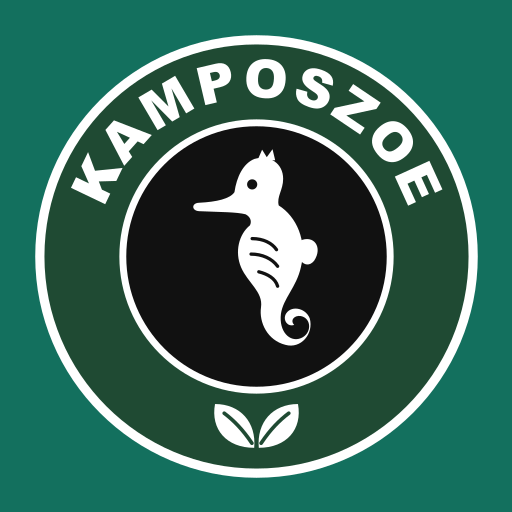
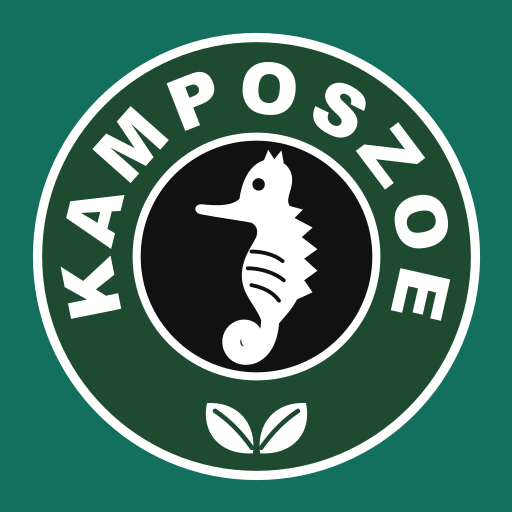
feat: emblema Kamposzoe más fiel al letrero (texto envolvente, púas, cola enroscada)

Changed region(s): [[0.0625, 0.0625, 0.9375, 0.9375]]

diff --git a/src/components/Logo.tsx b/src/components/Logo.tsx
@@ -2,16 +2,9 @@
 export default function Logo({ className = "" }: { className?: string }) {
   return (
     <svg viewBox="0 0 100 100" className={className} aria-hidden>
-      <circle cx="50" cy="50" r="50" fill="#1f4a33" />
+      <circle cx="50" cy="50" r="50" fill="#1e4a30" />
       <circle cx="50" cy="50" r="41" fill="#111" stroke="#fff" strokeWidth="3" />
-      <g transform="translate(13 12) scale(0.74)">
-        <path
-          fill="#fff"
-          d="M48 8 C55 6 61 10 61 17 C61 22 58 25 59 29 C67 34 72 45 69 57 C67 66 61 71 60 78 C59 86 64 91 69 89 C74 87 74 80 69 79 C66 78.5 64 81 66 83 C63 84 61 81 62 78.5 C64 74 71 75 73 80 C75 87 69 94 62 92 C54 90 50 82 51 75 C52 68 45 64 42 57 C39 50 41 42 46 38 C47 36 46 34 44 33 C40 32 33 32 23 31.6 C19.5 31.4 19.5 27.9 23 27.8 C31 27.4 37 26 39 23 C40 16 43 10 48 8 Z"
-        />
-        <path fill="#fff" d="M68.5 45 C75 42 79 48 75 54 C73 56.5 70.5 56 69 54 Z" />
-        <circle cx="47" cy="19.5" r="2.6" fill="#111" />
-      </g>
+      <g transform="translate(15 13) scale(0.74)"><path d="M50 8 C56 6 62 10 62 16 C62 21 59 24 61 27 L66.5 28.5 L63 32 L70.5 36 L66 40 L72.5 45 L67 49 L72.5 54 L67 58 L70.5 63 L64 66 C62 70 59 73 56.5 76 L49 74.5 C46.5 68 41 64 41 56 C41 49 45 44 47 40 C48 37 47 35 45 34 C40 33 32 32 24 30.5 C20.5 29.8 21 26 24.5 26.3 C31 27 37 27 40 24 C41 17 44 10 50 8 Z" fill="#fff" /><path d="M50 8.5 L52 3.5 L54.5 7.5 L57.5 3.8 L58.5 9 Z" fill="#fff" /><path d="M52.8 75 C52.5 84 48 90 42 89.5 C36 89 34.5 81 40 78.5 C44 77 47.5 80.5 44.5 83" fill="none" stroke="#fff" strokeWidth="7.5" strokeLinecap="round" /><circle cx="48" cy="18" r="2.6" fill="#111" /></g>
     </svg>
   );
 }
